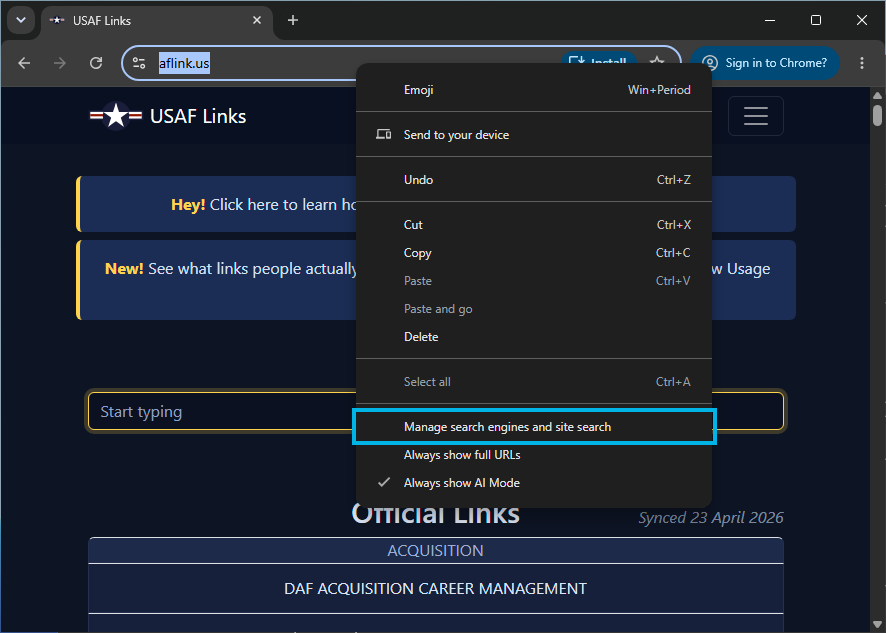
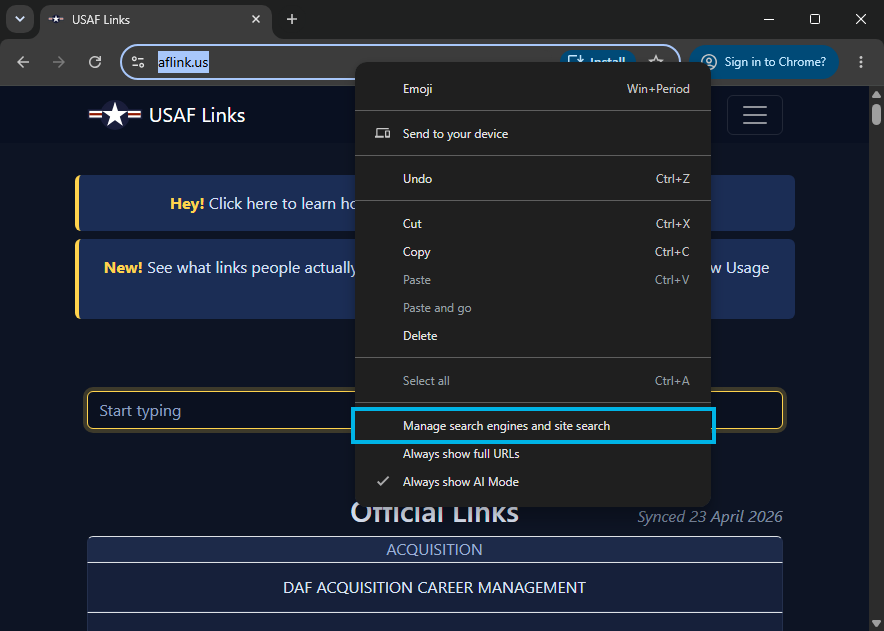
Tutorial screenshots: crop off the 1px Windows window outline
The DWM frame bounds include the outline Windows 11 draws round every
window, which framed each screenshot in wallpaper blue-grey (top, left) and
dark grey (right, bottom). Inset the crop by it, and trim the committed
images by the same pixel.

Claude-Session: https://claude.ai/code/session_016y93QkzzYefPTLWWCS1REF

diff --git a/scripts/tutorial-screenshots/capture.py b/scripts/tutorial-screenshots/capture.py
@@ -169,16 +169,21 @@ def center(r):
     return ((r.left + r.right) // 2, (r.top + r.bottom) // 2)
 
 
+BORDER = 1   # the 1px outline Windows 11 draws round every window
+
+
 def frame(win):
-    """The window's visible bounds. GetWindowRect (and UIA) include the
-    invisible resize border Windows 10/11 draws around every window."""
+    """The window's contents, edge to edge. GetWindowRect (and UIA) include
+    the invisible resize border Windows 10/11 draws around every window; the
+    DWM frame bounds used here drop that but still take in the 1px window
+    outline, which is inset away so it doesn't frame every screenshot."""
     import ctypes
     from ctypes import wintypes
     r = wintypes.RECT()
     DWMWA_EXTENDED_FRAME_BOUNDS = 9
     ctypes.windll.dwmapi.DwmGetWindowAttribute(
         wintypes.HWND(win.handle), DWMWA_EXTENDED_FRAME_BOUNDS, ctypes.byref(r), ctypes.sizeof(r))
-    return (r.left, r.top, r.right, r.bottom)
+    return (r.left + BORDER, r.top + BORDER, r.right - BORDER, r.bottom - BORDER)
 
 
 def window_crop(win, *extra, margin=8):
